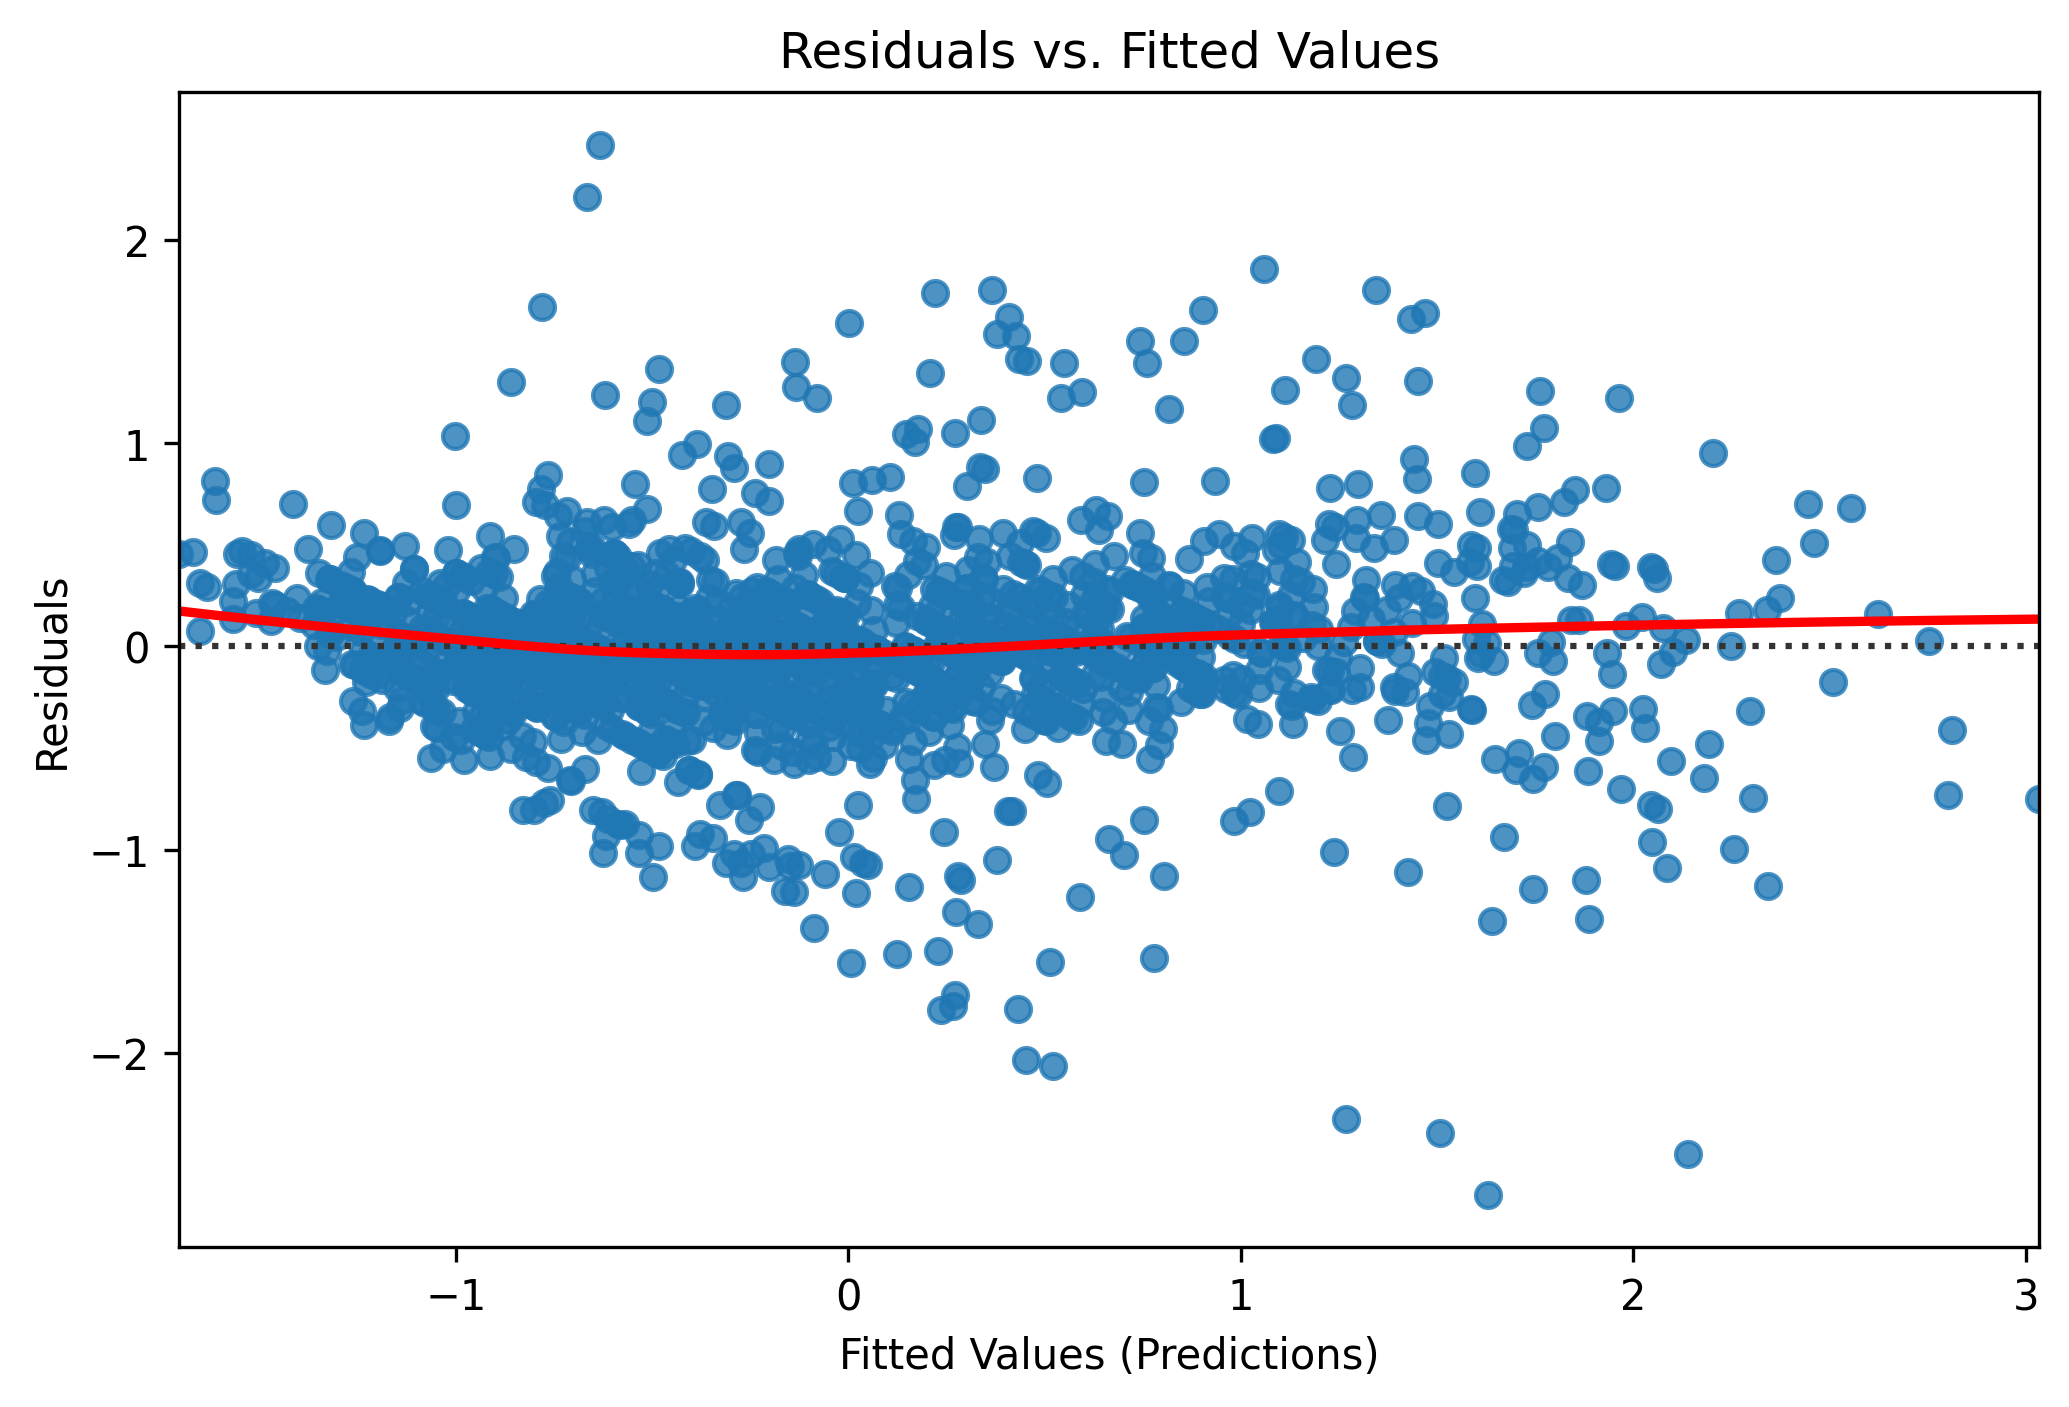
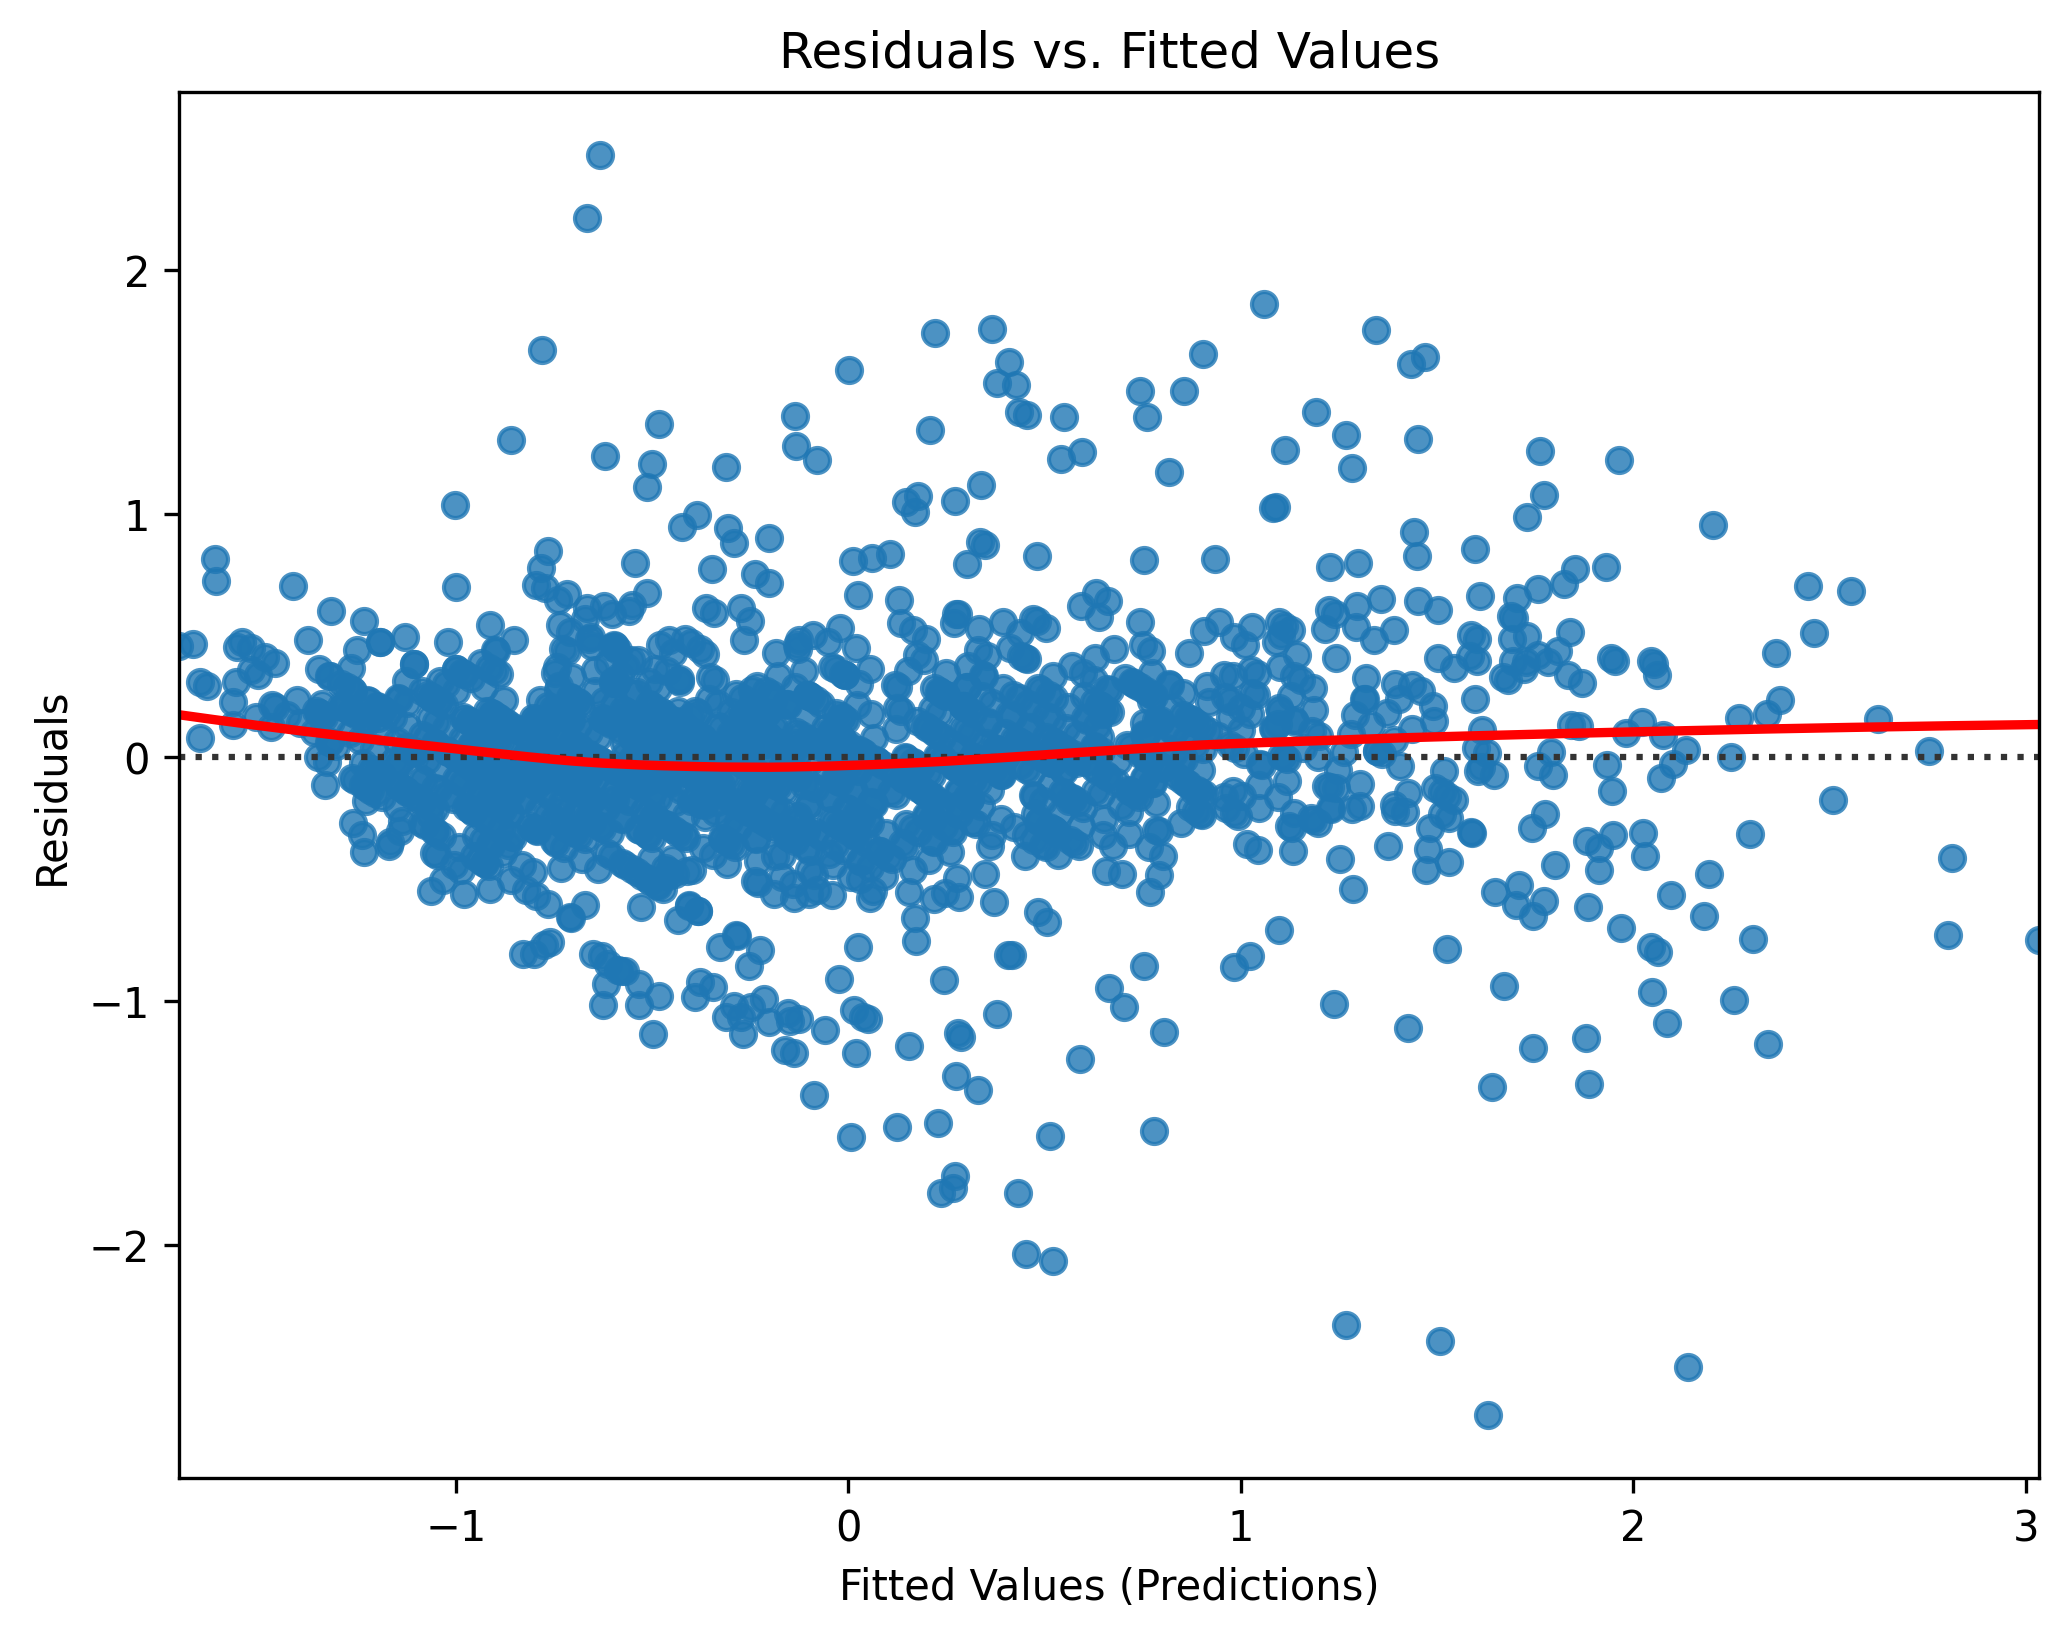
Added Diagnostic and scatter plots for ANN training

diff --git a/code/ANNModelCreation.py b/code/ANNModelCreation.py
@@ -2,6 +2,8 @@ import tensorflow as tf
 from tensorflow import keras
 import pandas as pd
 from sklearn.model_selection import train_test_split
+import matplotlib.pyplot as plt
+import seaborn as sns
 
 df = pd.read_csv("data/training_data.csv")
 #print(df.head())
@@ -26,5 +28,101 @@ val_loss, val_mae = ann_model.evaluate(X_val, Y_val, verbose=1)
 
 print(f"Validation Loss: {val_loss}")
 print(f"Validation MAE: {val_mae}")
+
+train_dict = train.history
+Y_pred = ann_model.predict(X_val).flatten()
+residuals = Y_val - Y_pred
+
+# Storing loss and MAE for training
+train_loss = train_dict['loss']
+val_loss = train_dict['val_loss']
+train_mae = train_dict['mae']
+val_mae = train_dict['val_mae']
+epochs = range(1, len(train_loss) + 1)
+
+performance_indicators = {
+    "Final Training Loss (MSE)": train_loss[-1],
+    "Final Validation Loss (MSE)": val_loss[-1],
+    "Final Training MAE": train_mae[-1],
+    "Final Validation MAE": val_mae[-1],
+    "Total Training Iterations (Epochs)": len(epochs)
+}
+
+performance_df = pd.DataFrame(performance_indicators, index=["ANN Model Performance Indicators"])
+performance_df.to_csv("data/ANNModelPerformanceMetrics.csv", header=True)
+
+sns.set_style("whitegrid")
+# Training and Validation Loss (MSE) curve
+plt.figure(figsize=(10, 5))
+sns.lineplot(x=epochs, y=train_loss, label='Training Loss (MSE)', marker='o', color='blue')
+sns.lineplot(x=epochs, y=val_loss, label='Validation Loss (MSE)', marker='o', color='red')
+plt.xlabel('Epochs')
+plt.ylabel('Loss (MSE)')
+plt.title('Training and Validation Loss Over Epochs')
+plt.legend()
+plt.savefig("documentation/ANNTrainingFigures/training_validation_loss.png", dpi=300, bbox_inches='tight')
+plt.show()
+
+# Training and Validation MAE Curve
+plt.figure(figsize=(10, 5))
+sns.lineplot(x=epochs, y=train_mae, label='Training MAE', marker='o', color='blue')
+sns.lineplot(x=epochs, y=val_mae, label='Validation MAE', marker='o', color='red')
+plt.xlabel('Epochs')
+plt.ylabel('Mean Absolute Error (MAE)')
+plt.title('Training and Validation MAE Over Epochs')
+plt.legend()
+plt.savefig("documentation/ANNTrainingFigures/training_validation.png", dpi=300, bbox_inches='tight')
+plt.show()
+
+# Residual Plot
+plt.figure(figsize=(10, 5))
+sns.residplot(x=Y_pred, y=residuals, lowess=True, color="blue", scatter_kws={'alpha': 0.5})
+plt.xlabel("Predicted CO(GT) Values")
+plt.ylabel("Residuals (Actual - Predicted)")
+plt.title("Residual Plot")
+plt.axhline(y=0, color='black', linestyle="--") 
+plt.savefig("documentation/ANNTrainingFigures/residual.png", dpi=300, bbox_inches='tight')
+plt.show()
+
+# Histogram of Residuals
+plt.figure(figsize=(10, 5))
+sns.histplot(residuals, bins=30, kde=True, color="blue")
+plt.xlabel("Residuals (Errors)")
+plt.ylabel("Frequency")
+plt.title("Error Distribution (Residuals Histogram)")
+plt.axvline(x=0, color='red', linestyle='--')
+plt.savefig("documentation/ANNTrainingFigures/residual_histogram.png", dpi=300, bbox_inches='tight')
+plt.show()
+
+# Scatter plots
+# Predicted vs. Actual Values
+plt.figure(figsize=(10, 5))
+sns.scatterplot(x=Y_val, y=Y_pred, alpha=0.5, color="green")
+plt.xlabel("Actual CO(GT) Values")
+plt.ylabel("Predicted CO(GT) Values")
+plt.title("Predicted vs. Actual Values")
+plt.plot([min(Y_val), max(Y_val)], [min(Y_val), max(Y_val)], color="red", linestyle="--")
+plt.savefig("documentation/ANNTrainingFigures/predicted_actual.png", dpi=300, bbox_inches='tight')
+plt.show()
+
+# Residuals vs. Actual Values
+plt.figure(figsize=(10, 5))
+sns.scatterplot(x=Y_val, y=residuals, alpha=0.5, color="blue")
+plt.axhline(y=0, color='r', linestyle='--') 
+plt.xlabel("Actual CO(GT) Values")
+plt.ylabel("Residuals (Actual - Predicted)")
+plt.title("Residuals vs. Actual Values")
+plt.savefig("documentation/ANNTrainingFigures/residual_actual.png", dpi=300, bbox_inches='tight')
+plt.show()
+
+# Residuals vs. Predicted Values
+plt.figure(figsize=(10, 5))
+sns.scatterplot(x=Y_pred, y=residuals, alpha=0.5, color="green")
+plt.axhline(y=0, color='r', linestyle='--')  
+plt.xlabel("Predicted CO(GT) Values")
+plt.ylabel("Residuals (Actual - Predicted)")
+plt.title("Residuals vs. Predicted Values")
+plt.savefig("documentation/ANNTrainingFigures/residual_predicted.png", dpi=300, bbox_inches='tight')
+plt.show()
 
 ann_model.save("data/currentAiSolution.keras")
